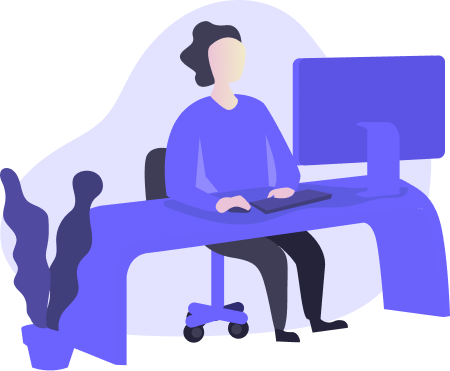
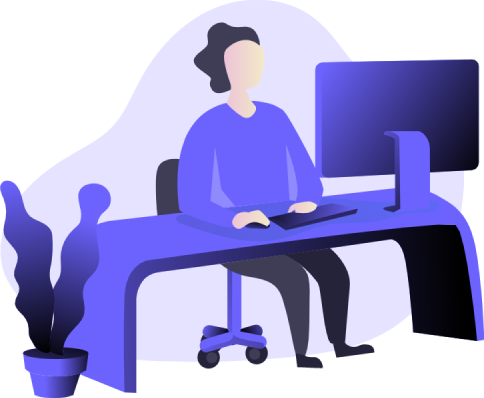
image load update, new ilustrations, responsive layout update

diff --git a/src/components/firt-steps/index.js b/src/components/firt-steps/index.js
@@ -10,15 +10,15 @@ import * as Icon from 'react-feather';
 //css component
 import './style.css';
 
-import UndrawTask from '../../assets/undraw_task.png';
-import OfficeWork from '../../assets/office_work.png';
-import DrinkCoffee from '../../assets/drinkACoffee.png';
+//import UndrawTask from '../../assets/undraw_task.png';
+//import OfficeWork from '../../assets/office_work.png';
+//import DrinkCoffee from '../../assets/drinkACoffee.png';
 
 import LevelSteps from '../../assets/level_steps.svg';
 import LevelSteps1 from '../../assets/level_steps_1.svg';
 import LevelSteps2 from '../../assets/level_steps_2.svg';
 
-function FirstSteps () {
+function FirstSteps ({ UndrawTask, OfficeWork, DrinkCoffee }) {
     const [step, setStep] = useState(0);
 
     //React Spring
@@ -38,12 +38,12 @@ function FirstSteps () {
         <div className="container">
 
             {step=== 0?
-                    <animated.img style={props} src={UndrawTask} alt="Undraw Task"/>
+                    <animated.img className="image-slide" style={props} src={UndrawTask} alt="Undraw Task"/>
             :
                 step=== 1? 
-                    <animated.img style={props} src={OfficeWork} alt="Office Work"/>
+                    <animated.img className="image-slide" style={props} src={OfficeWork} alt="Office Work"/>
                 :
-                    <animated.img style={props} src={DrinkCoffee} alt="Drink a Coffee"/>
+                    <animated.img className="image-slide" style={props} src={DrinkCoffee} alt="Drink a Coffee"/>
             }
 
             <div className="guide">
@@ -111,17 +111,81 @@ function FirstSteps () {
                 </div>
                 <div className="next">
                     {step === 0?
-                        <button className='button' style={{width:240, backgroundColor: '#6C63FF', borderColor: '#6C63FF', outlineColor: '#6C63FF', marginTop:20 }} onClick={ () => skipNextStep(1) } > Proximo passo <Icon.ArrowRightCircle style={{marginLeft: 10}} /> </button>
+                        <button 
+                            className='button' 
+                            style={{
+                                width:240, 
+                                backgroundColor: '#6C63FF', 
+                                borderColor: '#6C63FF', 
+                                outlineColor: '#6C63FF', 
+                                marginTop:20 }} 
+                            onClick={ () => skipNextStep(1) } 
+                        > 
+                            Proximo passo 
+                            <Icon.ArrowRightCircle size="4vh" style={{marginLeft: 10}} /> 
+                        </button>
                         :
                         step === 1?
                         <>
-                            <button className='button' style={{width:240, backgroundColor: '#6C63FF', borderColor: '#6C63FF', outlineColor: '#6C63FF', marginTop:20, marginRight:20 }} onClick={ () => skipNextStep(0) } > <Icon.ArrowLeftCircle style={{marginRight: 10}} /> Passo anterior </button>
-                            <button className='button' style={{width:240, backgroundColor: '#6C63FF', borderColor: '#6C63FF', outlineColor: '#6C63FF', marginTop:20 }} onClick={ () => skipNextStep(2) } > Proximo passo <Icon.ArrowRightCircle style={{marginLeft: 10}} /> </button>
+                            <button 
+                                className='button' 
+                                style={{
+                                    width:240, 
+                                    backgroundColor: '#6C63FF', 
+                                    borderColor: '#6C63FF', 
+                                    outlineColor: '#6C63FF', 
+                                    marginTop:20, 
+                                    marginRight:20 }} 
+                                    onClick={ () => skipNextStep(0) } 
+                            >   
+                                <Icon.ArrowLeftCircle style={{marginRight: 10}} /> 
+                                Passo anterior 
+                            </button>
+                            
+                            <button 
+                                className='button' 
+                                style={{
+                                    width:240, 
+                                    backgroundColor: '#6C63FF', 
+                                    borderColor: '#6C63FF', 
+                                    outlineColor: '#6C63FF', 
+                                    marginTop:20 }} 
+                                onClick={ () => skipNextStep(2) } 
+                            > 
+                                Proximo passo 
+                                <Icon.ArrowRightCircle style={{marginLeft: 10}} /> 
+                            </button>
                         </>
                         :
                         <>
-                            <button className='button' style={{width:240, backgroundColor: '#6C63FF', borderColor: '#6C63FF', outlineColor: '#6C63FF', marginTop:20, marginRight:20 }} onClick={ () => skipNextStep(1) } > <Icon.ArrowLeftCircle style={{marginRight: 10}} /> Passo anterior </button>
-                            <button className='button' style={{width:240, backgroundColor: '#6C63FF', borderColor: '#6C63FF', outlineColor: '#6C63FF', marginTop:20 }} onClick={ () => jumpForApp() } > Ir para a aplicação <Icon.Clock style={{marginLeft: 10}} /> </button>
+                            <button 
+                                className='button' 
+                                style={{
+                                    width:240, 
+                                    backgroundColor: '#6C63FF', 
+                                    borderColor: '#6C63FF', 
+                                    outlineColor: '#6C63FF', 
+                                    marginTop:20, 
+                                    marginRight:20 }} 
+                                onClick={ () => skipNextStep(1) } 
+                            > 
+                                <Icon.ArrowLeftCircle style={{marginRight: 10}} /> 
+                                Passo anterior 
+                            </button>
+
+                            <button 
+                                className='button' 
+                                style={{
+                                    width:240, 
+                                    backgroundColor: '#6C63FF', 
+                                    borderColor: '#6C63FF', 
+                                    outlineColor: '#6C63FF', 
+                                    marginTop:20 }} 
+                                onClick={ () => jumpForApp() } 
+                            >
+                                Ir para a aplicação 
+                                <Icon.Clock style={{marginLeft: 10}} /> 
+                            </button>
                         </>
                     }
                 </div>

diff --git a/src/App.js b/src/App.js
@@ -1,17 +1,44 @@
+//-----------------MODULES DEPENDENCES-----------------------------------------
 import React, {useState} from 'react';
+
 import { useSpring, animated } from 'react-spring';
-import { BrowserRouter as Router, Switch, Route, BrowserRouter, Redirect } from 'react-router-dom';
+
+import { 
+    BrowserRouter as Router, 
+    Switch, 
+    Route, 
+    BrowserRouter, 
+    Redirect,
+    useHistory
+} from 'react-router-dom';
 
 
-import Logo from './assets/logo.svg';
+//------------------CSS IMPORTS------------------------------------------------
 import './App.css';
 
 
+
+//------------------IMPORT COMPONENTS------------------------------------------
+//welcome component
 import Welcome from './components/welcome/index';
+
+//Steps componet
 import FirstSteps from './components/firt-steps/index';
+
+//Aplication component
 import Application from './components/application/index';
 
+
+//------------------IMAGE IMPORTS----------------------------------------------
+import Logo from './assets/logo.svg';
 import happyImg from './assets/happy.png';
+
+import FocusedWork from './assets/focused_working.png';
+
+import UndrawTask from './assets/undraw_task.png';
+import OfficeWork from './assets/office_work.png';
+import DrinkCoffee from './assets/drinkACoffee.png';
+
 
 function App () {
     const props = useSpring({opacity: 1, from: {opacity: 0}});
@@ -23,8 +50,13 @@ function App () {
     }
 
     return (<>
+        
         { sprintHappy ? 
-            <animated.div style={props} className="happyContainer" onClick={() => showSprintHappyBanner(false)} >
+            <animated.div 
+                style={props} 
+                className="happyContainer" 
+                onClick={() => showSprintHappyBanner(false)} 
+            >
                 <div className="center">
                     <img src={happyImg} alt=""/>
                 </div>
@@ -32,9 +64,9 @@ function App () {
             : 
             <></>
         }
-        <div className="App">
+        <div className="App" >
 
-            <div className="header">
+            <div className="header" >
                 <img src={Logo} alt="Pomodoro"/>
             </div>
 
@@ -47,8 +79,17 @@ function App () {
             <div className="applicationContainer" >
                 <BrowserRouter>
                     <Switch>
-                        <Route exact path='/' component={Welcome} />
-                        <Route path='/steps' component={FirstSteps} />
+                        <Route exact path='/'>
+                            <Welcome FocusedWork={FocusedWork} />
+                        </Route>
+
+                        <Route path='/steps'>
+                            <FirstSteps 
+                                UndrawTask={UndrawTask} 
+                                OfficeWork={OfficeWork}
+                                DrinkCoffee={DrinkCoffee}
+                            />
+                        </Route>
                         
                         <Route path='/app'>
                             <Application showSprintHappyBanner={showSprintHappyBanner} />

diff --git a/src/components/application/index.js b/src/components/application/index.js
@@ -129,7 +129,6 @@ function Application ({ showSprintHappyBanner }) {
                                 borderWidth : 4,
                                 borderColor: '#727272',
                                 color: '#727272',
-                                marginBottom: 20, 
                                 pointerEvents: "none",
                                 cursor: "not-allowed",
                             } : {
@@ -140,10 +139,10 @@ function Application ({ showSprintHappyBanner }) {
                         >Reset < Icon.RefreshCcw style={{marginLeft: 10}} /> </button>
 
                     </div>
-                    {/**
+
                     <div className="ads" >
+                        <h5>ADS</h5>
                     </div>
-                     */}
 
                 </div>
 

diff --git a/src/components/firt-steps/style.css b/src/components/firt-steps/style.css
@@ -5,6 +5,10 @@
     align-items: center;
 }
 
+.container .image-slide{
+    width: 70vh;
+}
+
 .container .guide{
     margin-left: 60px;
     width: 80vh;
@@ -12,11 +16,15 @@
 }
 
 .container .guide .view_level_steps{
-    width: 450px;
+    width: 100%;
     display: flex;
     flex-direction: row;
     justify-content: center;
     margin-bottom: 40px;
+}
+
+.container .guide .view_level_steps img{
+    width: 80%;
 }
 
 .container .guide .skip_button{
@@ -26,16 +34,17 @@
 .container .guide .skip_button .skip{
     float: right;
     cursor: pointer;
+    font-size: 2.4vh;
 }
 
 .container .guide .text_step{
     text-align: center;
-    font-size: 25px;
+    font-size: 3.5vh;
 }
 
 .container .guide .tips p{
     color: #6C63FF;
-    font-size: 18px;
+    font-size: 2.8vh;
 }
 
 .next {

diff --git a/src/App.css b/src/App.css
@@ -21,20 +21,19 @@
 }
 
 .button{
-  width: auto;
-  border-radius: 5px;
+  width: fit-content;
+  border-radius: 1vh;
   border: none;
   background-color: #6C63FF;
   color: #fff;
-  height: 50px;
-  font-size: 20px;
+  height: 8vh;
+  font-size: 3vh;
   outline: none;
-
+  
   display: flex;
   align-items: center;
   justify-content: center;
 }
-
 
 .happyContainer{
   position: fixed;

diff --git a/src/components/welcome/index.js b/src/components/welcome/index.js
@@ -9,9 +9,9 @@ import * as Icon from 'react-feather';
 import './style.css';
 
 //vector image
-import FocusedWork from '../../assets/focused_working.png';
+//import FocusedWork from '../../assets/focused_working.png';
 
-function Welcome (){
+function Welcome ({ FocusedWork }){
     
     const props = useSpring({opacity: 1, from: {opacity: 0}});
     const history = useHistory();

diff --git a/src/components/application/style.css b/src/components/application/style.css
@@ -76,7 +76,7 @@
 
 .application .panel .controllers{
     margin-top: 20px;
-    padding: 20px;
+    padding: 30px;
     width: 300px;
     border-radius: 5px;
     background-color: #eee;
@@ -93,5 +93,6 @@
     height: 60px;
     background-color: #eee;
     font-size: 24px;
-    border: 4px dashed #adadad ;
+    border: 4px dashed #cecece ;
+    color: #cecece ;
 }
